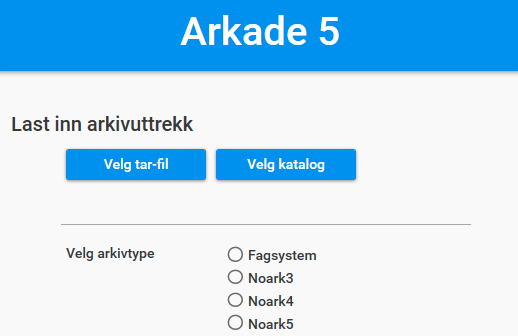
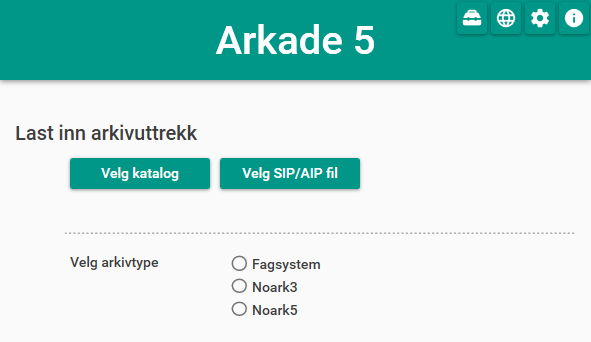
Update documentation with standalone PRONOM file format analysis
ARKADE-455

diff --git a/Brukerveiledning.rst b/Brukerveiledning.rst
@@ -14,13 +14,35 @@ Arkade 5 muliggjør også opprettelse/endring av metadata for arkivuttrekk.
 Oppstart/avslutning
 ~~~~~~~~~~~~~~~~~~~
 
-Ved oppstart av Arkade åpnes innlastingsvinduet. Dersom et tilgjengelig område for midlertidige filer ikke allerede er definert, vil Arkade først be om at dette blir opppgitt (se innstillinger). Arkade avsluttes ved å lukke hovedvinduet. Ved avslutning igangsettes sletting av midlertidige filer.
+Ved oppstart av Arkade åpnes innlastingsvinduet. Dersom et tilgjengelig område for midlertidige filer ikke allerede er definert, vil Arkade først be om at dette blir oppgitt (se innstillinger - tannhjul i hjørnet oppe til høyre). Arkade avsluttes ved å lukke hovedvinduet. Ved avslutning igangsettes sletting av midlertidige filer.
 
 
 Innlastingsvinduet
 ~~~~~~~~~~~~~~~~~~
 
 .. image:: img/LoadArchiveWindow.png
+
+Menyvalg
+--------
+
+Øverst til høyre finnes fire menyvalg. 
+
+.. |menuItem_aboutArkade| image:: img/MenuItem_AboutArkade.png
+| |menuItem_aboutArkade| **- Om Arkade**
+| Åpner et nytt vindu med informasjon om Arkade 5.
+
+.. |menuItem_settings| image:: img/MenuItem_Settings.png
+| |menuItem_settings| **- Innstillinger**
+| Åpner et nytt vindu med innstillinger brukeren kan tilpasse. Arkade sitt prosesseringsområde endres herfra. Det er i tillegg mulig å velge mellom mørk og lys modus.
+
+.. |menuItem_webPage| image:: img/MenuItem_WebPage.png
+| |menuItem_webPage| **- Hjemmeside**
+| Åpner hjemmesiden til Arkade i din standard nettleser.
+
+.. |menuItem_tools| image:: img/MenuItem_Tools.png
+| |menuItem_tools| **- Verktøy**
+| Åpner et nytt vindu med tilleggsverktøy for Arkade. I gjeldende versjon er det eneste tilgjengelige tilleggsverktøyet PRONOM-filanalyse av en valgt katalog.
+
 
 Innlasting
 ----------
@@ -92,7 +114,7 @@ Før arkivpakke opprettes registreres aktuelle metadata. For å skape en gyldig 
 
 I nedre del av vinduet velges ønsket pakketype, SIP eller AIP.
 
-Dersom "Inkluder formatinformasjon for dokumentfiler" velges vil Arkade lage en csv-fil med forespurt informasjon og lagre denne på følgende lokasjon i tar-filen: :file:`\{uuid\\\}\\administrative_metadata\ `
+Dersom "Inkluder formatinformasjon for dokumentfiler" velges vil Arkade lage en csv-fil med forespurt informasjon og lagre denne på følgende lokasjon i tar-filen: :file:`\{uuid\\\}\\administrative_metadata\ `. (*Pakkeuavhengig formatanalyse av innholdet i en hvilken som helst katalog er tilgjengelig fra "verktøy"-menyvalget:* |menuItem_tools|).
 
 Når ønskede metadata er oppgitt, klikkes knappen "Opprett pakke". Dette åpner et dialogvindu for valg av pakkens plassering. Ved valgt plassering opprettes arkivpakken.
 
@@ -201,7 +223,7 @@ Under vises et eksempel på hvordan kommandoen :command:`process` brukes. Det le
 | *Valgbare parametre ved arkivprosessering:*
 | :code:`--information-package-type`/:code:`-i` - Standardverdi 'SIP'. Kan overstyres til 'AIP'.
 | :code:`--noark5-test-list`/:code:`-l` - Oppgi sti til en fil som inneholder en liste med tester skal kjøres.
-| :code:`--document-file-format-check`/:code:`-f` - Arkade utfører formatsjekk av dokumentfiler og lagrer resultatet i en csv-fil i tar-pakken.
+| :code:`--document-file-format-check`/:code:`-f` - Arkade utfører formatanalyse av dokumentfiler og lagrer resultatet i en csv-fil i tar-pakken.
 
 :command:`test` - Testing av arkivuttrekk
 ...........
@@ -214,7 +236,7 @@ Test om arkivuttrekk er i henhold til en spesifisert standard. Påkrevde paramet
 
 :command:`pack` - Pakking av arkivuttrekk
 ...........
-Lag en arkivpakke. Påkrevde parametre er :code:`--archive`/:code:`-a`, :code:`--type`/:code:`-t`, :code:`--metadata-file`/:code:`-m`, :code:`--processing-area`/:code:`-p` og :code:`--output-directory`/:code:`-o`. Standard pakketype er SIP, dette kan endres ved å oppgi 'AIP' til parameteret :code:`--information-package-type`/:code:`-i`. Det kan også utføres en formatsjekk av filene ved å oppgi parameteret :code:`--document-file-format-check`/:code:`-f`.
+Lag en arkivpakke. Påkrevde parametre er :code:`--archive`/:code:`-a`, :code:`--type`/:code:`-t`, :code:`--metadata-file`/:code:`-m`, :code:`--processing-area`/:code:`-p` og :code:`--output-directory`/:code:`-o`. Standard pakketype er SIP, dette kan endres ved å oppgi 'AIP' til parameteret :code:`--information-package-type`/:code:`-i`. Det kan også utføres en formatanalyse av filene ved å oppgi parameteret :code:`--document-file-format-check`/:code:`-f`.
 
 .. code-block:: bash
 
@@ -231,6 +253,19 @@ Kommandoen under lager både en metadata-fil og en testliste-fil i katalogen som
 
 | *Obligatoriske parametre ved filgenerering:*
 | :code:`--metadata-example`/:code:`-m` *eller* :code:`--noark5-test-list`/:code:`-n` (*minst én av parametrene må oppgis*)
+| :code:`--output-directory`/:code:`-o`
+
+:command:`analyse` - Utfør analyse
+...................
+
+Kommandoen under ufører PRONOM filformat-analyse på alt innhold i katalogen som er gitt til parameteret :code:`--format-analysis`/:code:`-f`. Resultatet av analysen lagres i filen :file:`documentfile-formatinfo.csv`, som plasseres i katalogen som oppgis til :code:`--output-directory`/:code:`-o`.
+
+.. code-block:: bash
+
+	arkade analyse -f ~/directory -o ~/output/
+
+| *Obligatoriske parametre ved analyse:*
+| :code:`--format-analysis`/:code:`-f`
 | :code:`--output-directory`/:code:`-o`
 
 
